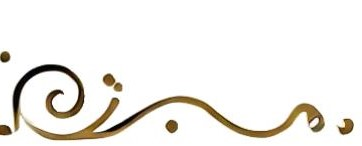
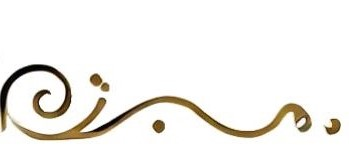
set: div cabecera

diff --git a/index.html b/index.html
@@ -40,9 +40,9 @@
   </div>
   <div id="app">
     <div id="cabecera">
-      <img src="Images\AdornoArribaIzq.JPG" alt="">
-      <img src="Images\W2tWoC-liston-centro.png" alt="">
-      <img src="Images\AdornoArribaDer.JPG" alt="">
+      <img class="adorno-cabecera" src="Images\AdornoArribaIzq.JPG" alt="">
+      <img class="adorno-cabecera centro" src="Images\W2tWoC-liston-centro.png" alt="">
+      <img class="adorno-cabecera" src="Images\AdornoArribaDer.JPG" alt="">
     </div>
     <div id="cuerpo">
 

diff --git a/style.css b/style.css
@@ -67,8 +67,19 @@ html, body {
 #cabecera {
     display: flex;
     justify-content: center;
+    justify-content: space-around;
     width: 100vw;
     height: 250px;
+}
+
+.adorno-cabecera {
+    width: 449px;
+    height: fit-content;
+}
+
+.adorno-cabecera.centro {
+    width: 556px;
+    height: 224px;
 }
 
 /* .desktop-frame {
